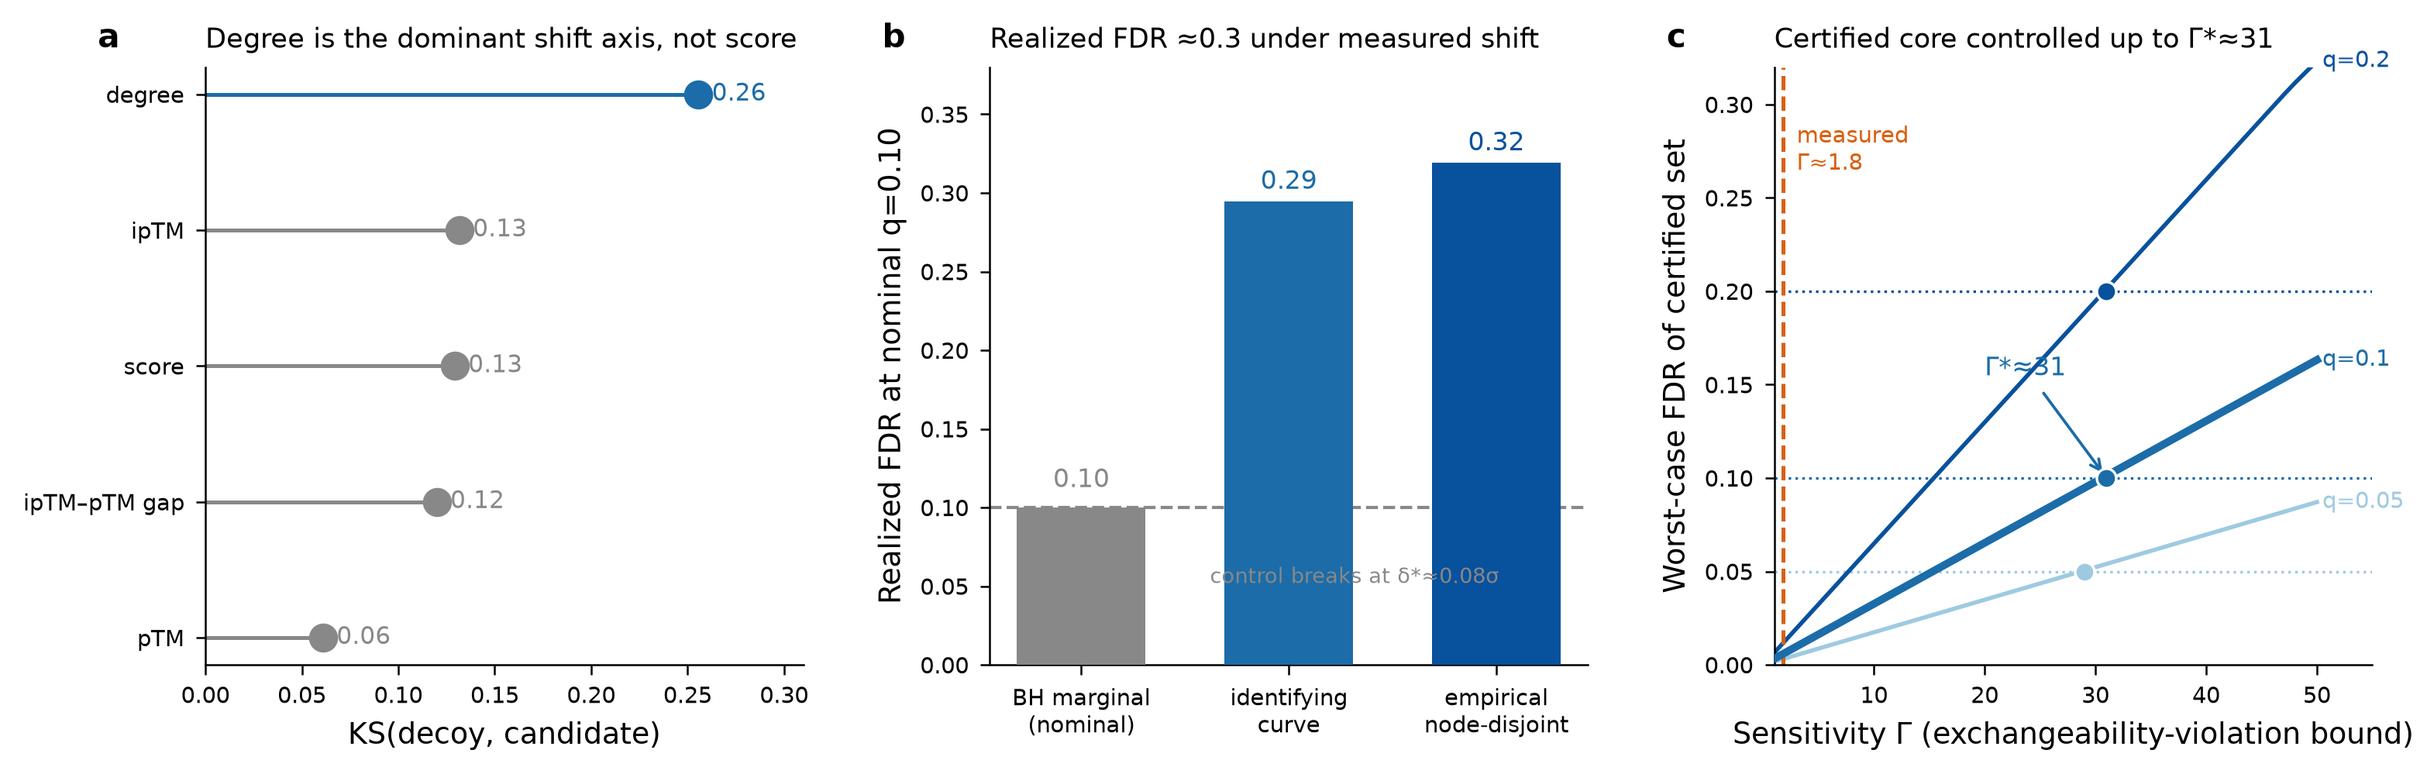
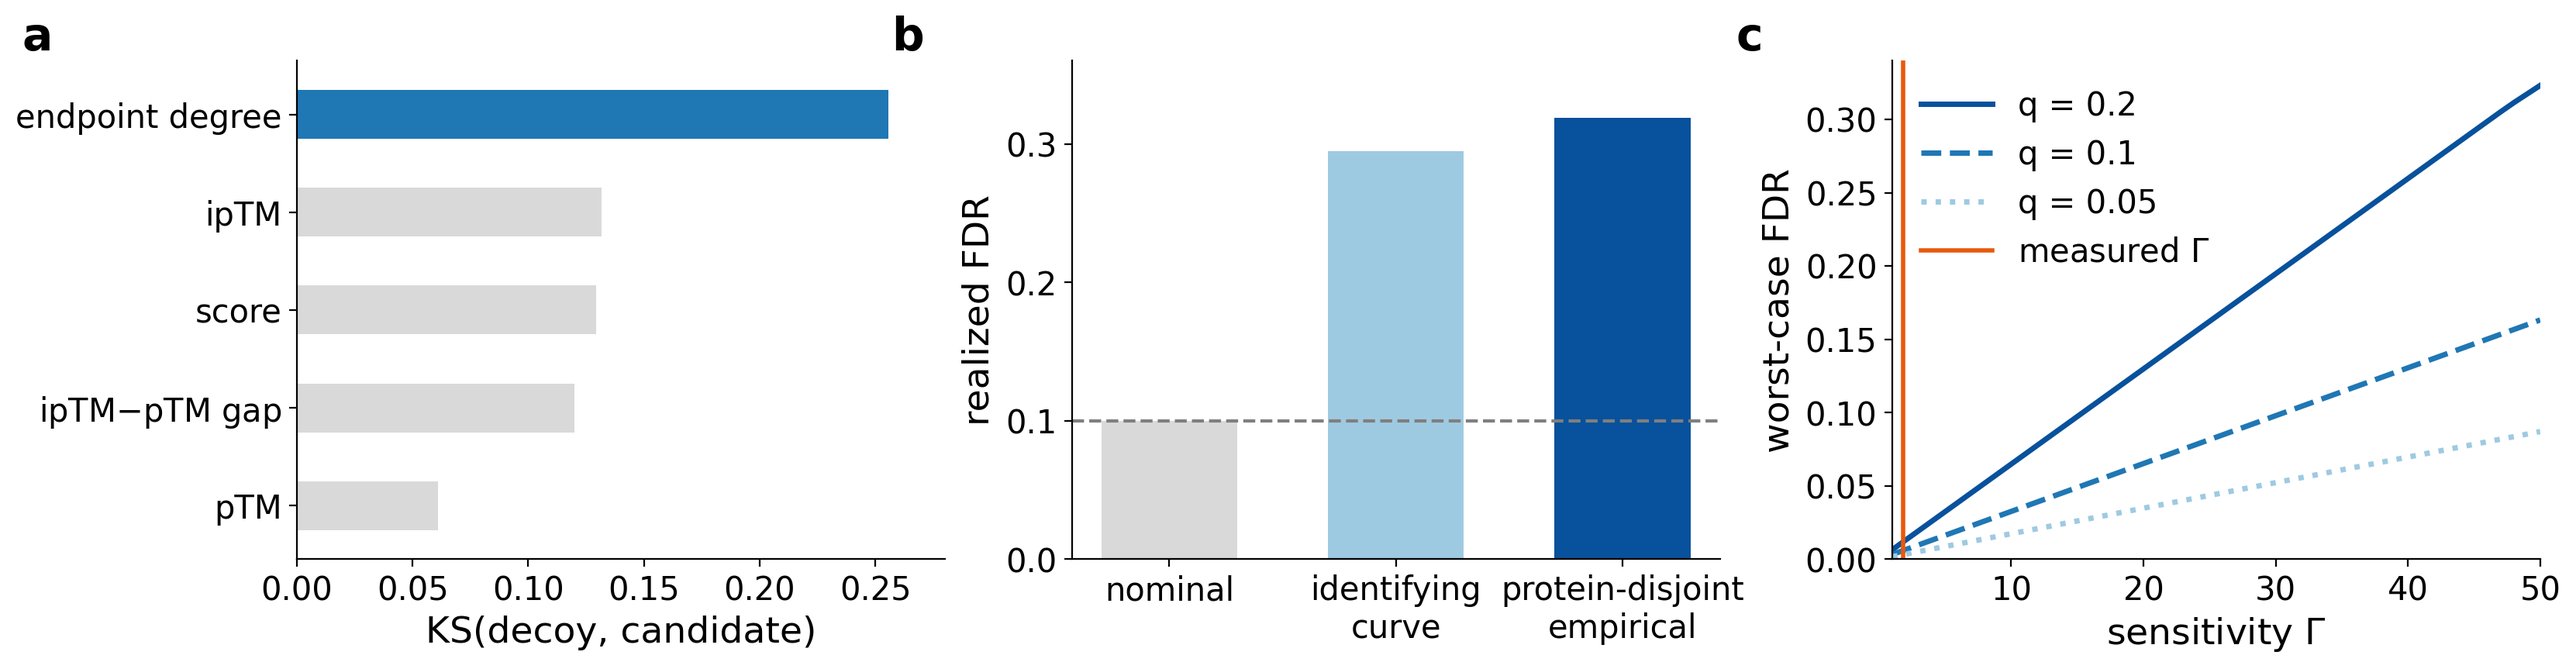
figs: add the missing generator; redraw to the convention in this literature
The four manuscript figures were committed PNGs with no generating code
anywhere in the repo -- `make figures` builds a different, older set -- so
they could not be regenerated from a clone and had drifted into several
rendering defects: Figure 4 drew its certified/dropped legend on top of the
bar it described, Figure 3 printed "matched null" across the null bar,
Figure 2's delta* note ran through the bars, and y-axis labels were clipped
mid-character.

scripts/make_paper_figs.py reads every plotted value from data/processed at
draw time -- the same artifacts verify_claims.py checks the prose against --
so a figure cannot drift from the number in the text without one of the two
failing. It writes into results/figures and all three paper figure
directories.

The redraw also changes the house style. The old figures carried their own
interpretation: conclusion-stating titles, bold value labels on every mark,
inline odds ratios and p-values. Figures in this literature are sparse --
panel letter, axis labels, a small frameless legend -- and put the effect
sizes, n, and takeaways in the caption, where the qualifications can sit
next to them. Captions in all three papers are rewritten accordingly and now
carry what the panels used to print, plus the bounds that belong beside it
(the n=12 underpowering, the non-significant certified-vs-tier contrast, the
hub confound behind the naive odds ratio).

Series are distinguished by marker and line style as well as colour, so the
[…]

diff --git a/scripts/make_paper_figs.py b/scripts/make_paper_figs.py
@@ -1,0 +1,255 @@
+#!/usr/bin/env python
+"""Regenerate the four manuscript figures from the committed result artifacts.
+
+Every value plotted is read from data/processed/*.json at draw time -- the same artifacts
+scripts/verify_claims.py checks the prose against -- so a figure cannot drift away from
+the number in the text without one of the two failing.
+
+Design follows the convention in this literature: figures carry the *data*, captions carry
+the *interpretation*. Concretely that means no panel titles stating a conclusion, no value
+labels repeating what an axis already shows, and no inline statistics. A panel gets a
+letter, axis labels, and at most a small frameless legend. Every effect size, p-value, n,
+and takeaway belongs in the caption, where a reader can also see the qualifications.
+
+Layout rules, because the previous hand-made figures broke all of them: constrained_layout
+throughout (labels were being clipped mid-character); legends never inside a plot area
+where they can land on the data; explicit ylim so nothing collides with the axes frame.
+Series stay distinguishable in greyscale via marker and line style, not colour alone.
+
+Figures are drawn at ~2x the printed width and included at \\linewidth, so font sizes here
+are ~2x their on-page size. Run: python scripts/make_paper_figs.py
+"""
+from __future__ import annotations
+
+import json
+from pathlib import Path
+
+import matplotlib
+
+matplotlib.use("Agg")
+import matplotlib.pyplot as plt
+
+ROOT = Path(__file__).resolve().parents[1]
+PROCESSED = ROOT / "data" / "processed"
+OUT_DIRS = [ROOT / "results" / "figures",
+            ROOT / "paper" / "icbinb" / "figs",
+            ROOT / "paper" / "gem" / "figs",
+            ROOT / "paper" / "evalues" / "figs"]
+
+BLUE, ORANGE, GREY = "#1f77b4", "#e8590c", "#7f7f7f"
+LIGHT, DARK, PALE = "#9ecae1", "#08519c", "#d9d9d9"
+
+plt.rcParams.update({
+    "font.size": 16,
+    "axes.labelsize": 17,
+    "xtick.labelsize": 15,
+    "ytick.labelsize": 15,
+    "legend.fontsize": 15,
+    "axes.spines.top": False,
+    "axes.spines.right": False,
+    "figure.dpi": 200,
+    "savefig.dpi": 200,
+})
+
+
+def load(name: str):
+    return json.loads((PROCESSED / name).read_text(encoding="utf-8"))
+
+
+def panel_tags(fig, n: int):
+    """Panel letters in a strip reserved above the axes.
+
+    Two earlier attempts collided: axes-relative placement landed on long y-axis labels,
+    and figure-relative placement landed on the axes themselves once the titles were
+    removed and the plots grew to fill the top. Shrinking the layout rect first
+    guarantees the strip is empty.
+    """
+    fig.get_layout_engine().set(rect=(0, 0, 1, 0.93))
+    xs = {2: (0.005, 0.515), 3: (0.005, 0.345, 0.675)}[n]
+    for x, letter in zip(xs, "abc"):
+        fig.text(x, 0.99, letter, fontsize=21, fontweight="bold", va="top", ha="left")
+
+
+def save(fig, stem: str):
+    for d in OUT_DIRS:
+        d.mkdir(parents=True, exist_ok=True)
+        fig.savefig(d / f"{stem}.png", bbox_inches="tight", facecolor="white")
+    plt.close(fig)
+    print(f"  wrote {stem}.png")
+
+
+# --------------------------------------------------------------------------------------
+def fig1_audit_wedge():
+    bench, val = load("benchmark_synth.json"), load("validation.json")
+    q = 0.1
+    rows = sorted((r for r in bench["rows"] if r["q"] == q), key=lambda r: -r["prevalence"])
+    pis = [r["prevalence"] for r in rows]
+    x = list(range(len(pis)))
+
+    fig, (ax1, ax2) = plt.subplots(1, 2, figsize=(11.5, 4.2), constrained_layout=True)
+
+    ax1.axhline(q, ls="--", color=GREY, lw=1.5, zorder=1)
+    ax1.plot(x, [r["benchmark_fdr"] for r in rows], "s-", color=ORANGE, lw=2.5, ms=9,
+             label="benchmark cutoff", zorder=3)
+    ax1.plot(x, [r["conformal_fdr"] for r in rows], "o-", color=BLUE, lw=2.5, ms=9,
+             label="conformal + BH", zorder=3)
+    ax1.set_xticks(x)
+    ax1.set_xticklabels([f"{p:g}" for p in pis])
+    ax1.set_xlabel("prevalence $\\pi$")
+    ax1.set_ylabel("realized FDR")
+    ax1.set_ylim(0, 1.0)
+    ax1.set_xlim(-0.3, len(x) - 0.7)
+    ax1.legend(frameon=False, loc="upper left", handlelength=1.8)
+
+    sets = val["sets"]
+    order = [("certified", "certified", BLUE), ("raw_high_conf", "all high-conf", GREY),
+             ("dropped", "dropped", ORANGE)]
+    ys = list(range(len(order)))[::-1]
+    for y, (key, _lab, colour) in zip(ys, order):
+        frac = sets[key]["frac_coess"]
+        ax2.barh(y, frac, height=0.5, color=colour)
+    ax2.set_yticks(ys)
+    ax2.set_yticklabels([lab for _, lab, _ in order])
+    ax2.set_xlim(0, 0.48)
+    ax2.set_ylim(-0.55, len(order) - 0.45)
+    ax2.set_xlabel("fraction co-essential")
+
+    panel_tags(fig, 2)
+    save(fig, "fig1_audit_wedge")
+
+
+# --------------------------------------------------------------------------------------
+def fig2_guarantee():
+    sa, sen = load("shift_attribution.json"), load("sensitivity.json")
+    q = "0.1"
+
+    fig, (ax1, ax2, ax3) = plt.subplots(1, 3, figsize=(16.5, 4.2), constrained_layout=True)
+
+    ks = sa["per_covariate_ks"]
+    labels = [("degree", "endpoint degree"), ("iptm_mean", "ipTM"), ("score", "score"),
+              ("iptm_ptm_gap", "ipTM$-$pTM gap"), ("ptm_mean", "pTM")]
+    ys = list(range(len(labels)))[::-1]
+    for y, (key, _lab) in zip(ys, labels):
+        ax1.barh(y, ks[key]["ks"], height=0.5,
+                 color=BLUE if key == "degree" else PALE)
+    ax1.set_yticks(ys)
+    ax1.set_yticklabels([lab for _, lab in labels])
+    ax1.set_xlim(0, 0.28)
+    ax1.set_ylim(-0.55, len(labels) - 0.45)
+    ax1.set_xlabel("KS(decoy, candidate)")
+
+    pop = sen["realized_fdr_population"]
+    names = ["nominal", "identifying\ncurve", "protein-disjoint\nempirical"]
+    vals = [float(q), pop["identifying_curve_fdr"][q], pop["empirical_node_disjoint_fdr"][q]]
+    ax2.bar(names, vals, color=[PALE, LIGHT, DARK], width=0.6)
+    ax2.axhline(float(q), ls="--", color=GREY, lw=1.5)
+    ax2.set_ylabel("realized FDR")
+    ax2.set_ylim(0, 0.36)
+
+    tilt = sen["analytic_tilt"]
+    gammas = tilt["gammas"]
+    styles = (("0.2", DARK, "-"), ("0.1", BLUE, "--"), ("0.05", LIGHT, ":"))
+    for qq, colour, ls in styles:
+        ax3.plot(gammas, tilt["worst_case_fdr_curve"][qq], color=colour, ls=ls, lw=2.5,
+                 label=f"q = {float(qq):g}")
+    ax3.axvline(sen["realized_fdr_population"]["equivalent_gamma"],
+                color=ORANGE, ls="-", lw=2, label="measured $\\Gamma$")
+    ax3.set_xlabel("sensitivity $\\Gamma$")
+    ax3.set_ylabel("worst-case FDR")
+    ax3.set_ylim(0, 0.34)
+    ax3.set_xlim(1, max(gammas))
+    ax3.legend(frameon=False, loc="upper left", handlelength=2.2)
+
+    panel_tags(fig, 3)
+    save(fig, "fig2_guarantee")
+
+
+# --------------------------------------------------------------------------------------
+def fig3_validation():
+    ppi, bench = load("experimental_ppi_referee.json"), load("benchmark_synth.json")
+
+    fig, (ax1, ax2) = plt.subplots(1, 2, figsize=(11.5, 4.2), constrained_layout=True)
+
+    groups = [("certified", BLUE), ("dropped", ORANGE)]
+    width = 0.33
+    for i, (key, colour) in enumerate(groups):
+        r = ppi["results"][key]
+        ax1.bar(i - width / 2, r["obs_rate"], width, color=colour,
+                label="observed" if i == 0 else None)
+        ax1.bar(i + width / 2, r["matched_null_mean"], width, color=PALE,
+                yerr=1.96 * r["matched_null_sd"], capsize=5,
+                error_kw=dict(ecolor=GREY, lw=1.5),
+                label="degree-matched null" if i == 0 else None)
+    ax1.set_xticks(range(len(groups)))
+    ax1.set_xticklabels([k for k, _ in groups])
+    ax1.set_ylabel("IntAct evidence")   # short: long labels run into the panel letter
+    ax1.set_ylim(0, 0.95)
+    ax1.legend(frameon=False, loc="upper right", handlelength=1.4)
+
+    pis = sorted(bench["prevalences"], reverse=True)
+    x = list(range(len(pis)))
+    for qq, colour, mk, ls in ((0.2, DARK, "s", "-"), (0.1, BLUE, "o", "--"),
+                               (0.05, LIGHT, "^", ":")):
+        ys = [next(r["conformal_fdr"] for r in bench["rows"]
+                   if r["q"] == qq and r["prevalence"] == p) for p in pis]
+        ax2.axhline(qq, ls=":", color=colour, lw=1.2)
+        ax2.plot(x, ys, marker=mk, ls=ls, color=colour, lw=2.5, ms=9, label=f"q = {qq:g}")
+    ax2.set_xticks(x)
+    ax2.set_xticklabels([f"{p:g}" for p in pis])
+    ax2.set_xlabel("prevalence $\\pi$")
+    ax2.set_ylabel("realized FDR")
+    ax2.set_ylim(0, 0.26)
+    ax2.set_xlim(-0.3, len(x) - 0.7)
+    ax2.legend(frameon=False, loc="upper left", ncol=3, handlelength=2.0,
+               columnspacing=1.1)
+
+    panel_tags(fig, 2)
+    save(fig, "fig3_validation")
+
+
+# --------------------------------------------------------------------------------------
+def fig4_secondmap():
+    sm = load("secondmap_audit.json")
+    tier = sm["n_high_conf"]
+
+    fig, (ax1, ax2) = plt.subplots(1, 2, figsize=(11.5, 4.2), constrained_layout=True)
+
+    qs = ["0.05", "0.1", "0.2"]
+    cert = [100 * sm["certified_by_q"][q] / tier for q in qs]
+    drop = [100 * sm["dropped_by_q"][q] / tier for q in qs]
+    x = list(range(len(qs)))
+    ax1.bar(x, cert, 0.55, color=BLUE, label="certified")
+    ax1.bar(x, drop, 0.55, bottom=cert, color=ORANGE, label="dropped")
+    ax1.set_xticks(x)
+    ax1.set_xticklabels([f"{float(q):g}" for q in qs])
+    ax1.set_xlabel("target FDR $q$")
+    ax1.set_ylabel("% of tier")
+    ax1.set_ylim(0, 108)
+    ax1.legend(frameon=False, loc="lower center", bbox_to_anchor=(0.5, -0.42), ncol=2)
+
+    grad = sm["referee"]["referee_alive_spoc_gradient"]
+    bins = sorted(grad, key=lambda b: float(b.split("-")[0]))
+    x = list(range(len(bins)))
+    ax2.plot(x, [grad[b]["coess"] for b in bins], "o-", color=BLUE, lw=2.5, ms=9)
+    ax2.set_xticks(x)
+    ax2.set_xticklabels([b.replace("-", "–") for b in bins], rotation=30, ha="right")
+    ax2.set_xlabel("SPOC bin")
+    ax2.set_ylabel("fraction co-essential")
+    ax2.set_ylim(0, 0.5)
+
+    panel_tags(fig, 2)
+    save(fig, "fig4_secondmap")
+
+
+def main() -> int:
+    print("regenerating manuscript figures from data/processed/ ...")
+    fig1_audit_wedge()
+    fig2_guarantee()
+    fig3_validation()
+    fig4_secondmap()
+    print("done")
+    return 0
+
+
+if __name__ == "__main__":
+    raise SystemExit(main())
